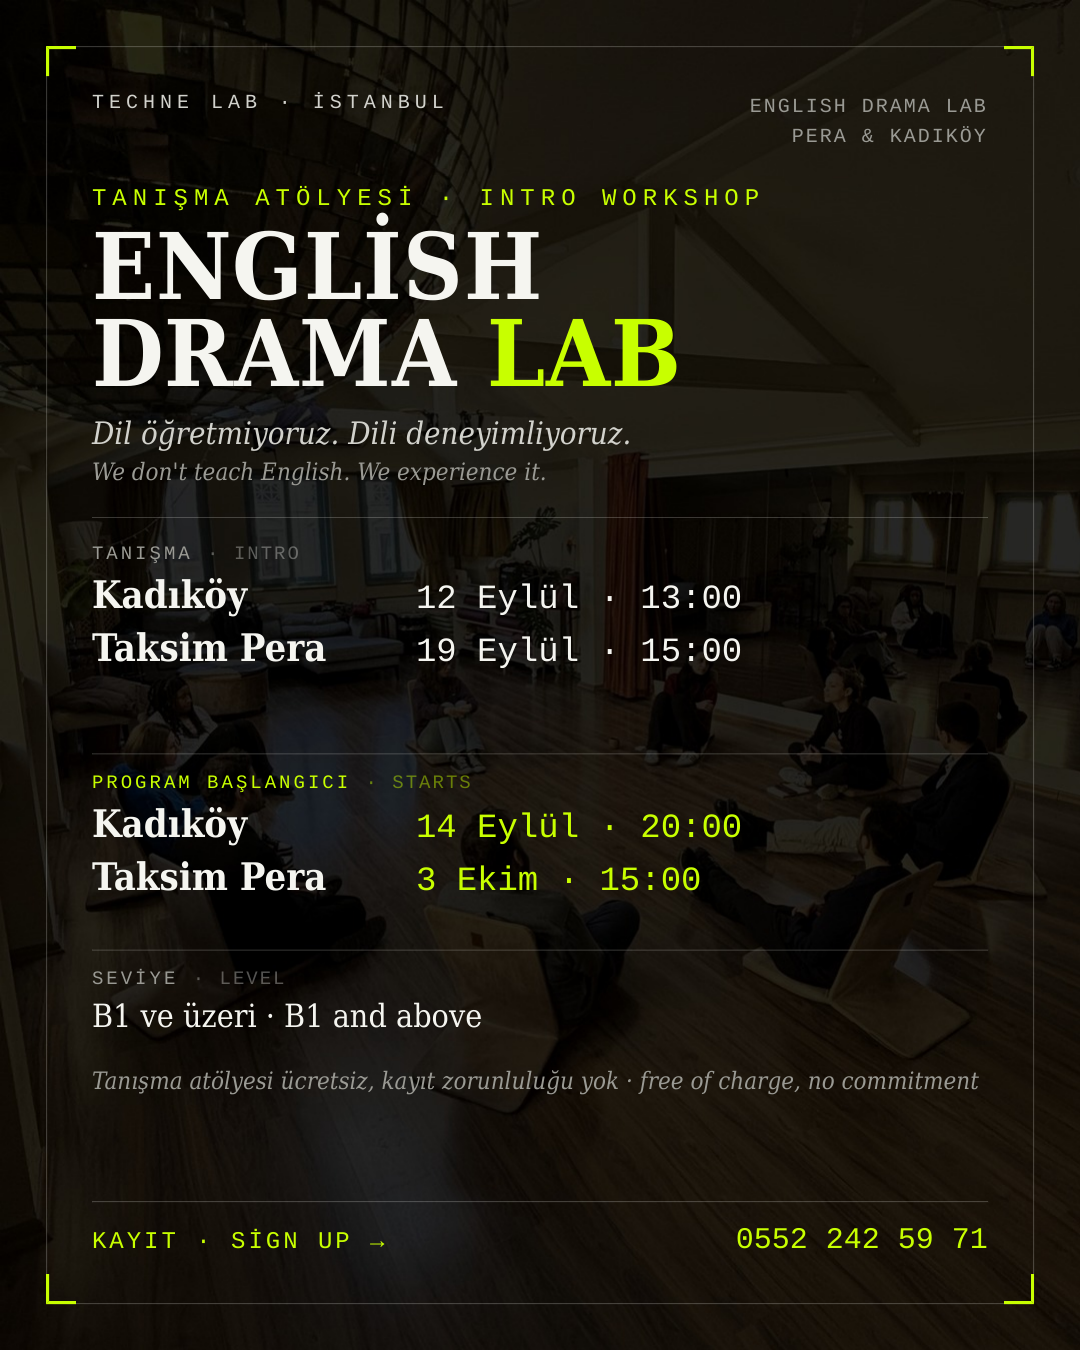
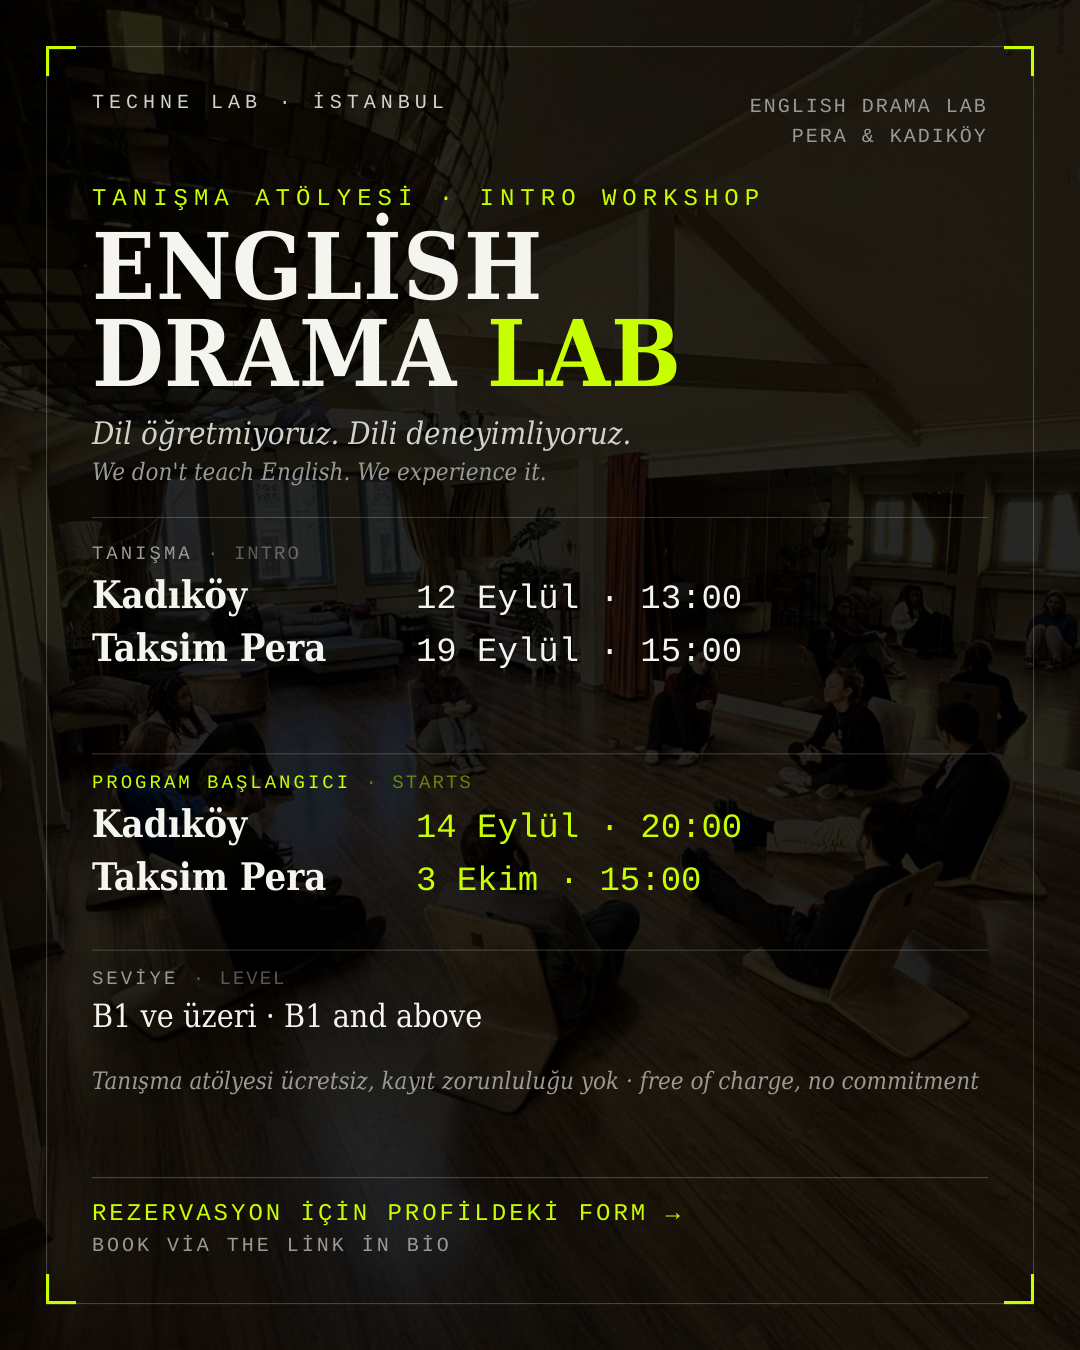
Tanışma formu: Instagram alanı; postlardan telefon kaldırıldı, CTA profildeki form

Changed region(s): [[0.0917, 0.8711, 0.6111, 0.9333], [0.6722, 0.9022, 0.8556, 0.9333], [0.8861, 0.9022, 0.9167, 0.9333]]

diff --git a/src/app/tanisma-gunu/actions.ts b/src/app/tanisma-gunu/actions.ts
@@ -33,6 +33,7 @@ export async function submitTanisma(formData: FormData): Promise<TanismaFormStat
   const experience   = take(formData, 'experience', 2000)
   const motivation   = take(formData, 'motivation', 2000)
   const source       = take(formData, 'source', 160)
+  const instagram    = take(formData, 'instagram', 80).replace(/^@+/, '')
   const kvkk         = formData.get('kvkk')
   const iletisimIzni = formData.get('iletisimIzni') === 'evet'
   // Veli alanları (Youth)
@@ -92,6 +93,7 @@ export async function submitTanisma(formData: FormData): Promise<TanismaFormStat
     r('Doğum Yılı', birthYear),
     ...(email        ? [r('E-posta', email)] : []),
     ...(phone        ? [r('Telefon', phone)] : []),
+    ...(instagram    ? [r('Instagram', `@${instagram}`)] : []),
     ...(occupation   ? [r(isYouth ? 'Okul / Sınıf' : 'Meslek', occupation)] : []),
     ...(englishLevel ? [r('İngilizce Seviyesi', englishLevel)] : []),
     ...(guardianName  ? [r('Veli Adı Soyadı', guardianName)] : []),

diff --git a/src/components/TanismaForm.tsx b/src/components/TanismaForm.tsx
@@ -170,6 +170,10 @@ export default function TanismaForm({ action }: Props) {
           </Field>
         )}
 
+        <Field htmlFor="instagram" label="Instagram Kullanıcı Adı">
+          <input id="instagram" name="instagram" placeholder="@kullaniciadi" autoComplete="off" className={inputCls} />
+        </Field>
+
         <Field htmlFor="experience" label="Sahne / Tiyatro / Dans Deneyimi">
           <textarea id="experience" name="experience" rows={3} placeholder="Varsa kısaca. Yoksa boş bırakın — gerekmiyor." className={`${inputCls} resize-none`} />
         </Field>
